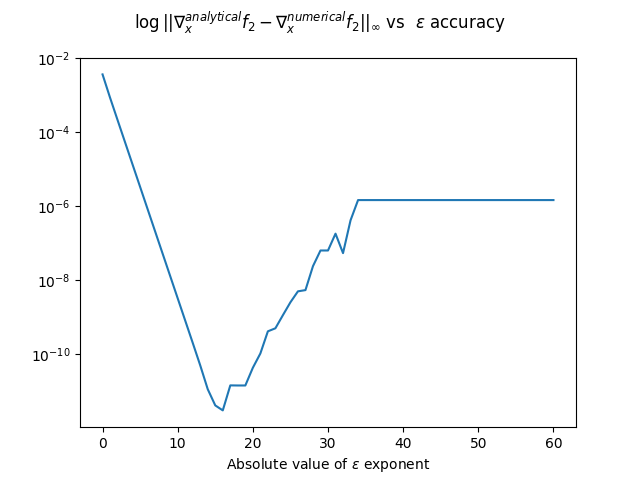
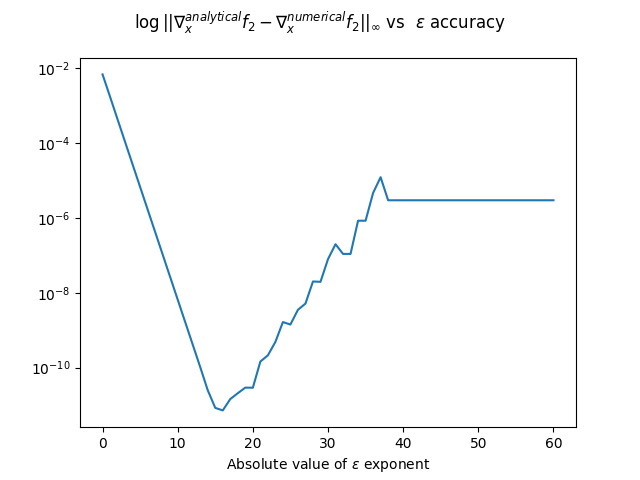
hw1 fixes

diff --git a/hw1/phi.py b/hw1/phi.py
@@ -4,16 +4,16 @@ import numpy as np
 def calc_phi_value_grad_hessian(x, calc_grad=True, calc_hessian=True):
     x_1_squared = x[1]**2
     u_value = x[0] * x_1_squared * x[2]
-    cos_value = np.cos(u_value)
-    sin_value = np.sin(u_value)
-    value = cos_value
+    cos_2value = np.cos(2*u_value)
+    sin_2value = np.sin(2*u_value)
+    value = np.power(np.cos(u_value),2)
     ret = [value]
 
     if calc_grad:
         u_grad = np.array([x_1_squared * x[2],
                            2 * x[0] * x[1] * x[2],
                            x[0] * x_1_squared])
-        phi_grad = -sin_value * u_grad
+        phi_grad = -sin_2value * u_grad
         ret.append(phi_grad)
     if calc_hessian:
         u_hessian = np.array([[0,                 2 * x[1] * x[2],   x_1_squared],
@@ -28,7 +28,7 @@ def calc_phi_value_grad_hessian(x, calc_grad=True, calc_hessian=True):
         H2 = np.array([[H2_11, H2_12, H2_13],
                        [H2_12, H2_22, H2_23],
                        [H2_13, H2_23, H2_33]])
-        phi_hessian = - cos_value * H2 - sin_value * u_hessian
+        phi_hessian = - 2 * cos_2value * H2 - sin_2value * u_hessian
         ret.append(phi_hessian)
     return ret
 

diff --git a/hw1/hw1.py b/hw1/hw1.py
@@ -7,6 +7,7 @@ from func_cmp_analyt_vs_num import func_compare_analytical_vs_numerical
 run_on_f1 = True
 run_on_f2 = True
 
+
 def compare_analytical_vs_numerical():
 
     np.random.seed(10)
